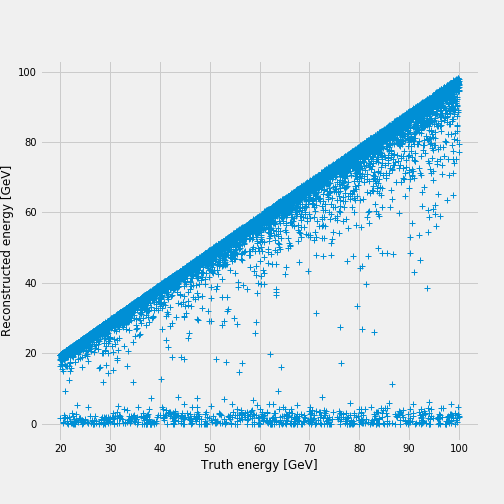
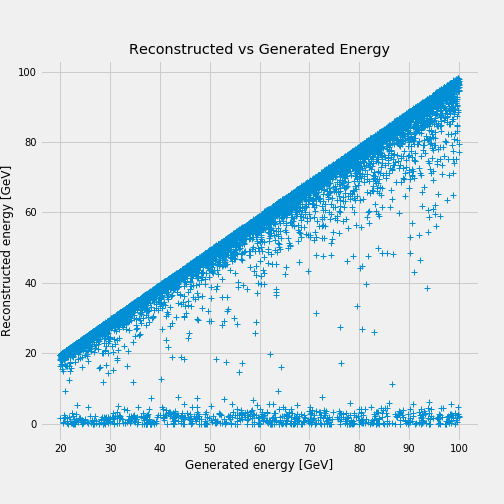
Include average image

Changed region(s): [[0.3869, 0.8929, 0.6548, 0.9524], [0.2381, 0.0893, 0.7738, 0.119]]

diff --git a/README.md b/README.md
@@ -5,13 +5,21 @@ associated with the energy reconstruction in the CMS electromagnetic calorimeter
 
 The results are based on the simulated sample
 
-- `eplus_Ele-Eta0PhiPiOver2-Energy20to100_V2.npy`.
+- `eplus_Ele-Eta0PhiPiOver2-Energy20to100_V2.json`.
 
+Initially the sample consists of highly sparse images. Consequently, a preprocessing
+step to find a bounding box of 28x28 around the cell of maximum energy is applied.
+
+### Average image after preprocessing
+![](notebooks/avg_images.png)
+
+### Energy distribution after preprocessing
 ![](notebooks/gen_energy.png)
 
-The root mean squared error [RMSE](python/custom_estimator.py#L58) measures
+The root mean squared error [RMSE](python/custom_estimator.py#L61) measures
 the discrepancy between the reconstructed energy and the generated value.
 
+### Reconstructed vs Generated energy
 ![](notebooks/reco_vs_gen_energy.png)
 
 ## Machine Learning Models
@@ -40,7 +48,7 @@ the discrepancy between the reconstructed energy and the generated value.
 </table>
 
 The good performance of the neural networks at minimizing the
-[RMSE](python/custom_estimator.py#L58) is demonstrated below:
+[RMSE](python/custom_estimator.py#L61) is demonstrated below:
 
 <table>
   <tr>
@@ -81,8 +89,8 @@ The good performance of the neural networks at minimizing the
 In all scenarios the convolutional neural network outperforms the other models.
 
 ## Learning Curves
-The evolution of the [RMSE](python/custom_estimator.py#L58) is calculated for the validation sample.
-The horizonal axis represents the number of [steps](python/custom_estimator.py#L80).
+The evolution of the [RMSE](python/custom_estimator.py#L61) is calculated for the validation sample.
+The horizonal axis represents the number of [steps](python/custom_estimator.py#L87).
 One epoch is equivalent to 100 steps, and the plot extends up to 20 epochs.
 
 ### Threshold at 0 GeV
